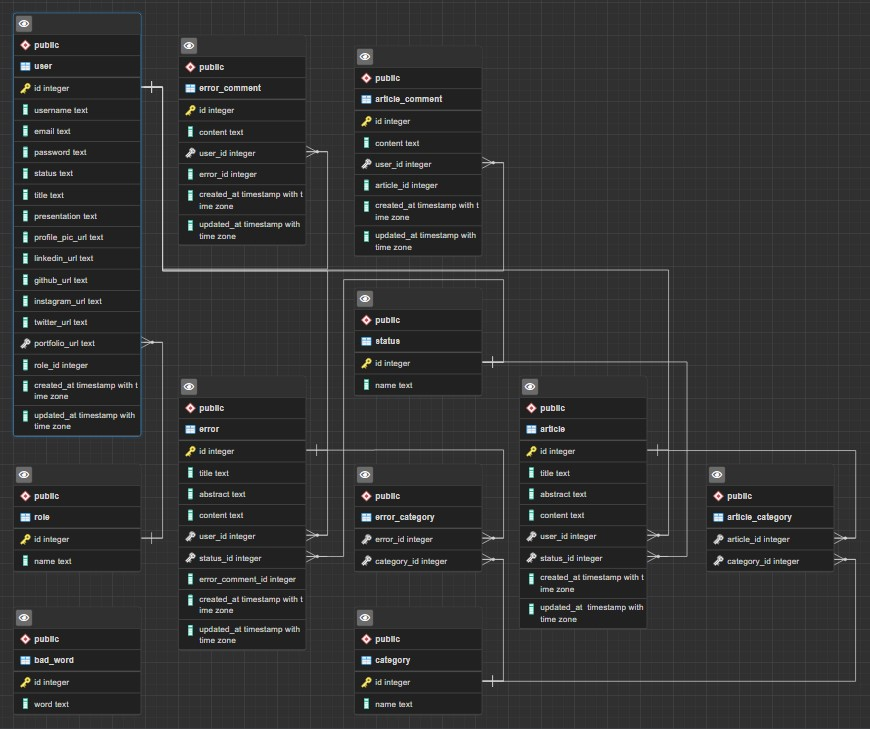
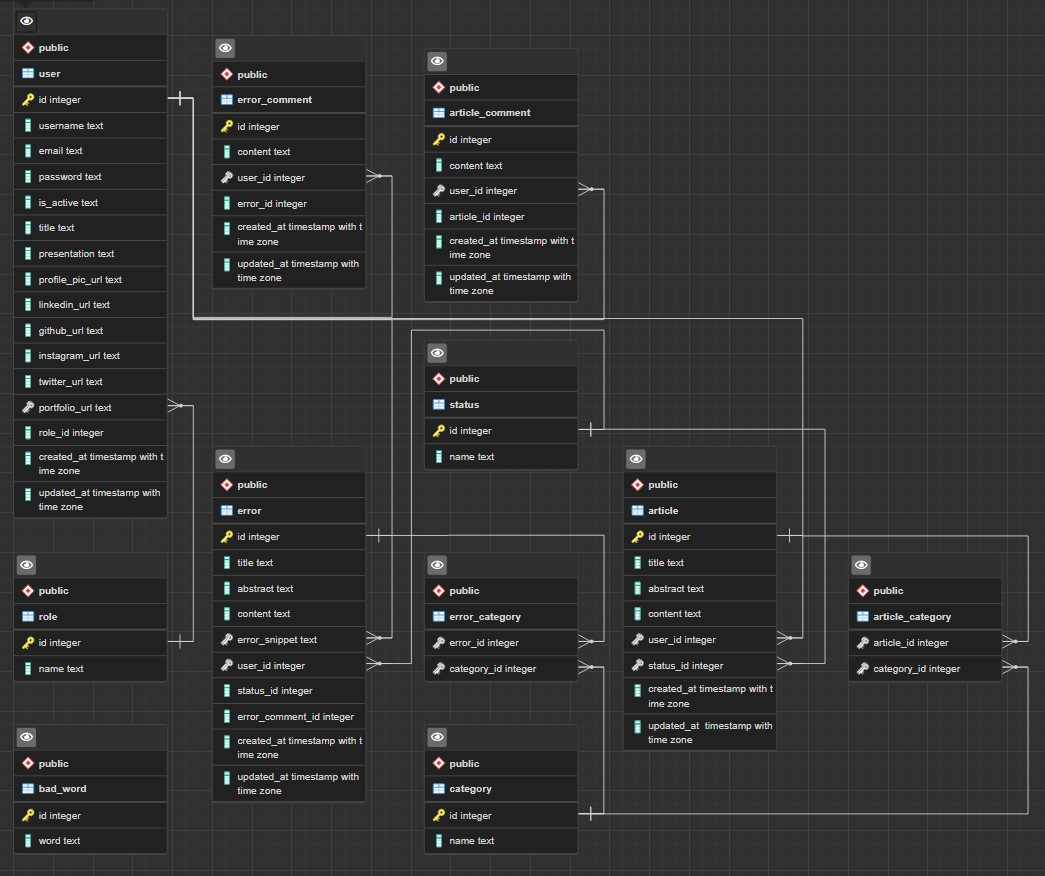
[docs] add pages

diff --git a/__Apotheose__/1-Conception/10_Pages.md b/__Apotheose__/1-Conception/10_Pages.md
@@ -1,0 +1,33 @@
+# Résumé des pages
+
+Date : 18/07/2022
+
+___
+
+## Défintions des pages
+
+Pour le projet, nous allons donc répertorier et travailler sur 14 pages au total :
+
+- 1 page accueil
+- 1 page profil
+- 1 page inscription
+- 1 page dashboard "user"
+- 1 page dashboard "author"
+- 1 page dashboard "admin"
+- 1 page avec tous les articles
+- 1 page avec tous les tickets d'erreur
+- 1 page avec un article
+- 1 page avec un ticket d'erreur
+- 1 page pour la création d'un article
+- 1 page pour la création d'un ticket d'erreur
+- 1 page contact
+- 1 page avec tous les utilisateurs
+
+Et 2 modales :
+
+- 1 modal avec un formulaire de connexion
+- 1 modal avec la prévisualisation lors de la création d'un article ou d'un ticket d'erreur
+
+___
+
+[Page précédente](./09_Preparation_composant.md) | [Page suivante](A MENTIONNER) | [Accueil](../../README.md)

diff --git a/__Apotheose__/1-Conception/06_Endpoints.md b/__Apotheose__/1-Conception/06_Endpoints.md
@@ -47,6 +47,7 @@ ___
 | GET | /categories/:id/errors | Récupérer tous les tickets d'erreur d'une catégorie | Tableau d'objets JSON | Page tickets d'erreur |
 | GET | /users/:id/errors | Récupérer tous les tickets d'erreur d'un utilisateur | Tableau d'objets JSON | Profil utilisateur
 | GET | /errors/last | Récupérer les derniers tickets d'erreur publiés | Tableau d'objets JSON | Home |
+| GET | /errors/search | Récupérer les tickets d'erreur liés à la recherche | Tableau d'objets JSON | Toutes les pages |
 
 ### <u>Article comments</u>
 

diff --git a/__Apotheose__/1-Conception/05_MCD_MLD_MPD.md b/__Apotheose__/1-Conception/05_MCD_MLD_MPD.md
@@ -45,7 +45,7 @@ ERROR_COMMENT: code_error_comment, content, created_at, updated_at
 A_CLASSIFIES, 1N ARTICLE, 0N CATEGORY
 CATEGORY: code_category, name
 E_CLASSIFIES, 1N ERROR, 0N CATEGORY
-ERROR: code_error, title, abstract, content, created_at, updated_at
+ERROR: code_error, title, abstract, content, error_snippet, created_at, updated_at
 E_OWNS, 0N ERROR, 11 ERROR_COMMENT
 
 STATUS: code_status, name

diff --git a/__Apotheose__/Sommaire.md b/__Apotheose__/Sommaire.md
@@ -12,6 +12,7 @@
 - [Dictionnaire de données](../__Apotheose__/1-Conception/07_Dico_de_donnees.md)
 - [Design](../__Apotheose__/1-Conception/08_Design.md)
 - [Préparation des composants](../__Apotheose__/1-Conception/09_Preparation_composant.md)
+- [Pages](../__Apotheose__/1-Conception/10_Pages.md)
 - [Projection Front & Back](../__Apotheose__/1-Conception/_Projection.md)
 
 ## Phase de développement

diff --git a/__Apotheose__/1-Conception/08_Design.md b/__Apotheose__/1-Conception/08_Design.md
@@ -20,6 +20,19 @@ ___
 
 ![Erreurs](../../Images/Page_erreurs.jpg)
 
+___
+
+## Design page profil
+
+![profil](../../Images/profil.jpg)
+
+___
+
+## Design page dashboard
+
+![dashboard](../../Images/dashboard_1.jpg)
+___
+
 ## Design version mobile
 
 ### Home (short version)
@@ -29,7 +42,6 @@ ___
 ### Home (full version)
 
 ![home-mobile](../../Images/Mobile-Home-full.jpg)
-
 
 ___
 

diff --git a/__Apotheose__/1-Conception/09_Preparation_composant.md b/__Apotheose__/1-Conception/09_Preparation_composant.md
@@ -1,6 +1,6 @@
 # Préparation des composants
 
-Date : 15/07/2022
+Date : 15/07/2022 - 18/07/2022
 
 ___
 
@@ -43,3 +43,7 @@ Les outils utilisés pour la réalisation des designs : [Adobe Illustrator](http
 ## Titles
 
 ![titles](../../Images/titles.jpg)
+
+___
+
+[Page précédente](./08_Design.md) | [Page suivante](./10_Pages.md) | [Accueil](../../README.md)
